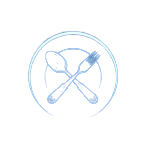
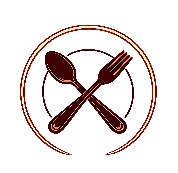
update colors

Changed region(s): [[0.1067, 0.1333, 0.9067, 0.9067], [0.64, 0.56, 0.6667, 0.5867]]

diff --git a/header.css b/header.css
@@ -21,12 +21,12 @@
 .navbar a.active {
     display: inline-block;
     padding: 6px 14px;
-    background-color: #FFF4E6;
+    background-color: #EDFFEE;
     border-radius: 5px;
 
     font-weight: 600;
     font-size: 13px;
-    color: #FF9900;
+    color: #66221E;
 
     box-shadow: 0 0 4px rgba(255, 153, 48, 0.45);
 }
@@ -38,7 +38,7 @@
   left: 0;
   height: 1px;
   width: 100%;
-  background-color: #ff6600;
+  background-color: #66221E;
   border-radius: 2px;
   transition: all 0.3s ease;
 }
@@ -46,7 +46,7 @@
 .navbar a:before {
     content: "\f006";
     font: normal normal normal 14px/1 FontAwesome;
-    color:#FF9900;
+    color:#66221E;
     padding-right: 7px;
 }
 
@@ -57,13 +57,13 @@
     border-radius: 12px;
     font-weight: 600;
     font-size: 16px;
-    color: #FFA500; /* fallback para browsers sem gradiente */
+    color: #66221E; /* fallback para browsers sem gradiente */
 
     /* Texto com gradiente */
     background-clip: text;
     -webkit-background-clip: text;
     color: transparent;
-    background-image: linear-gradient(90deg, #FF9900, #FFB84D);
+    background-image: linear-gradient(90deg, #66221E, #FFB84D);
 
     /* Sombra suave */
     box-shadow: 0 0 4px rgba(0,0,0,0.05);

diff --git a/item-template.css b/item-template.css
@@ -1,7 +1,7 @@
 .menu-item {
   display: flex;
   align-items: flex-start; /* align text and image at top */
-  border-top:1px dashed #e0e0e0
+  border-top:1px dashed #66221E
 }
 
 .menu-item .flex-grow-1 {
@@ -18,14 +18,15 @@
     font-size: 24px;
     font-weight: 700;
     text-transform: capitalize;
-    border-bottom: 1px solid black;
-    border-top: 1px solid black;
+    border-bottom: 1px solid #66221E;
+    border-top: 1px solid #66221E;
+    color: #66221E;
     
 }
 .text-section{
     font-size: 20px;
     font-weight: 700;
-    background-color: #FFF4e6;
+    background-color: #EDFFEE;
 }
 
 .item-description {
@@ -57,7 +58,7 @@
 }
 
 .item-price {
-    color: #ff6600;
+    font-size: 0.8em;
     display: flex;
     align-items: flex-start;
     flex-wrap: wrap;

diff --git a/index.css b/index.css
@@ -5,7 +5,7 @@ html, body {
   height: 100%;
   margin: 0;
   overflow-x: clip; /* allows child scroll, still prevents page scrolling */
-  background-color: #f8f9fa;
+  background-color: #6E7D68;
   font-family: 'Inter', -apple-system, BlinkMacSystemFont, 'Segoe UI', Roboto, sans-serif;
 }
 
@@ -31,7 +31,7 @@ html, body {
 /* Container do menu */
 #menu-placeholder {
   flex: 1;
-  background-color: white;
+  background-color: #C5E3C0;
   max-height: calc(100vh - 75px);
   overflow-y: auto; /* aqui é que permite o scroll interno */
   scroll-behavior: smooth;

diff --git a/index.html b/index.html
@@ -55,7 +55,7 @@
 
 
 <script src="data.json</script>       
-<!-- <script src="api_menus.js"></script> -->
+<script src="api_menus.js"></script>
 <script src="build_header.js"></script>
 <script src="build_menu-section.js"></script>
 <script src="scrollspy.js"></script>
